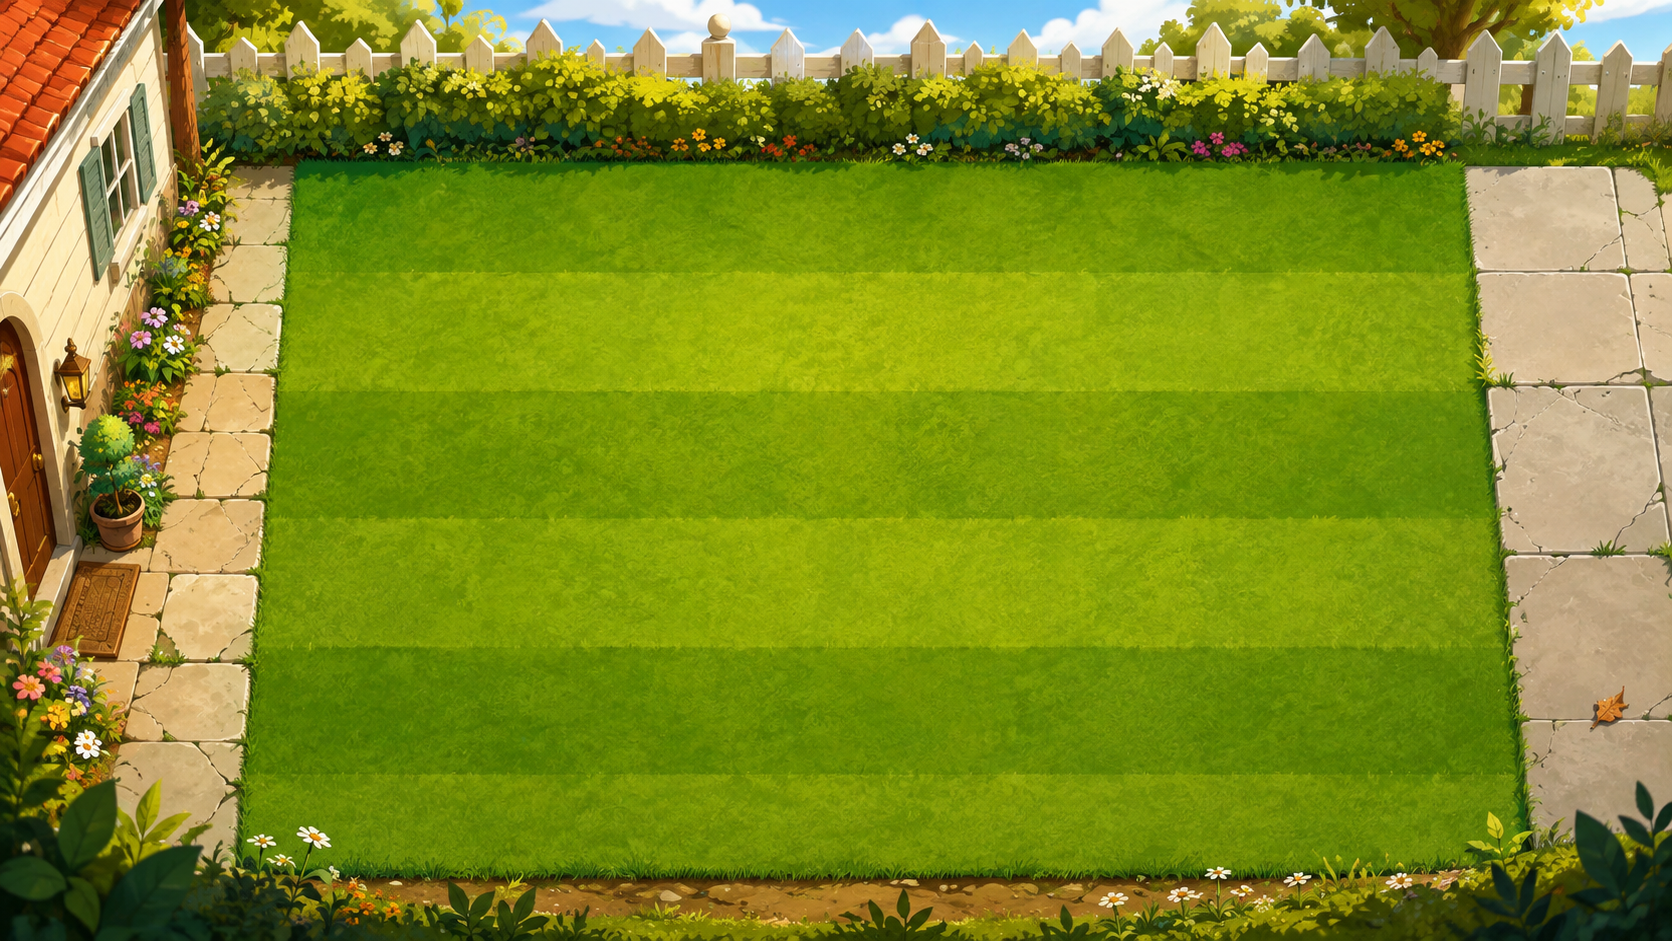
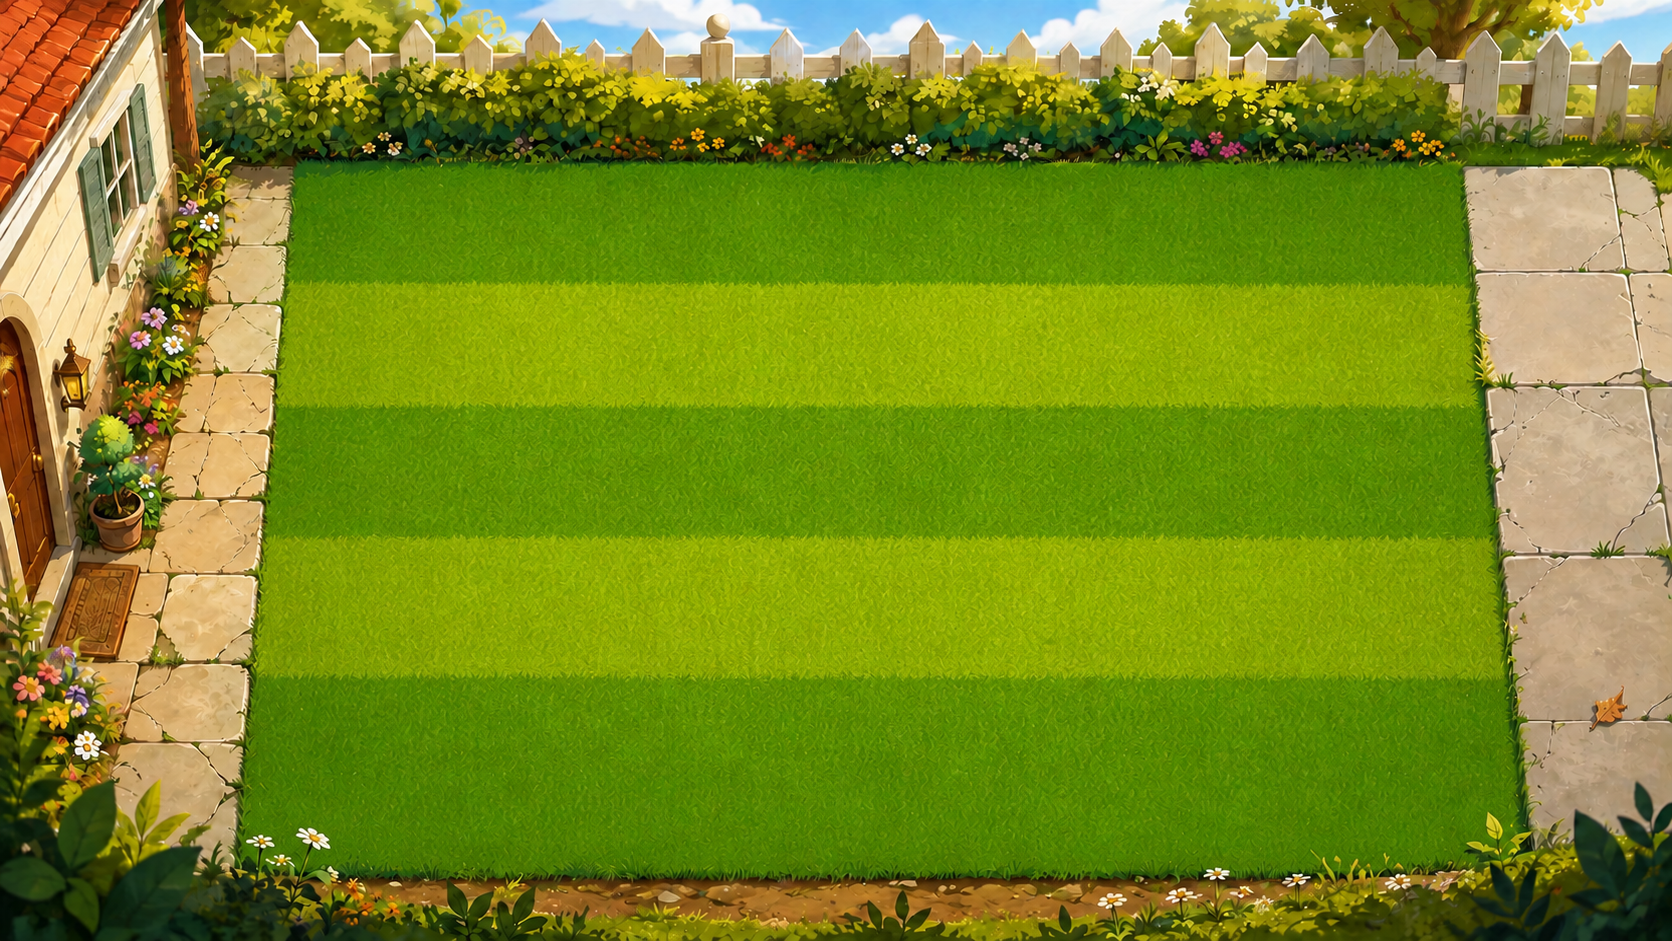
Render five equal lawn rows matching the original front yard
Replace the six-stripe background and normalize its five painted bands to shared 124-pixel rows on load. Restore planting across the full lawn and document the image prompts and original layout references.

Changed region(s): [[0.0, 0.0, 1.0, 1.0], [0.9952, 0.0308, 1.0, 0.0616], [0.7153, 0.6164, 0.7464, 0.6472]]

diff --git a/src/game/GardenRenderer.ts b/src/game/GardenRenderer.ts
@@ -47,7 +47,7 @@ const loadImage = (src: string) =>
  */
 export class GardenRenderer {
   private readonly ctx: CanvasRenderingContext2D
-  private background?: HTMLImageElement
+  private background?: HTMLCanvasElement
   private zombieAtlas?: HTMLImageElement
 
   /** Individual sprites cut out of the atlas, indexed by `PlantDef.sprite`. */
@@ -88,7 +88,7 @@ export class GardenRenderer {
     const [background, atlas, zombieAtlas] = await Promise.all([
       loadImage(gardenUrl), loadImage(spritesUrl), loadImage(zombieAnimationsUrl),
     ])
-    this.background = background
+    this.background = this.prepareBackground(background)
     this.zombieAtlas = zombieAtlas
     for (const [sx, sy, sw, sh] of SPRITE_RECTS) {
       const cut = document.createElement('canvas')
@@ -98,6 +98,30 @@ export class GardenRenderer {
       this.sprites.push(cut)
       this.thumbs.push(cut.toDataURL('image/png'))
     }
+  }
+
+  /** Fit the painted bands to the same equal-height rows used for interaction. */
+  private prepareBackground(image: HTMLImageElement) {
+    const canvas = document.createElement('canvas')
+    canvas.width = FIELD.w
+    canvas.height = FIELD.h
+    const c = canvas.getContext('2d')!
+    // Measured stripe boundaries in garden.png, expressed in canvas units.
+    // Resample once on load; the illustration does not define gameplay geometry.
+    const sourceEdges = [140, 245, 350, 463, 583, 760]
+    const sourceScale = image.naturalHeight / FIELD.h
+    const strip = (top: number, bottom: number, y: number, height: number) => {
+      c.drawImage(image, 0, top * sourceScale, image.naturalWidth, (bottom - top) * sourceScale,
+        0, y, FIELD.w, height)
+    }
+    strip(0, sourceEdges[0], 0, FIELD.y)
+    for (let row = 0; row < FIELD.rows; row++) {
+      const { y, height } = cellBounds(row, 0)
+      strip(sourceEdges[row], sourceEdges[row + 1], y, height)
+    }
+    const bottom = FIELD.y + FIELD.rows * FIELD.ch
+    strip(sourceEdges[FIELD.rows], FIELD.h, bottom, FIELD.h - bottom)
+    return canvas
   }
 
   /** Drops every transient effect — called when a new run starts. */
@@ -554,11 +578,12 @@ export class GardenRenderer {
     c.lineWidth = 1
     for (let col = 0; col <= FIELD.cols; col++) {
       c.beginPath()
-      c.moveTo(FIELD.x + col * FIELD.cw, FIELD.rowEdges[0])
-      c.lineTo(FIELD.x + col * FIELD.cw, FIELD.rowEdges[FIELD.rows])
+      c.moveTo(FIELD.x + col * FIELD.cw, FIELD.y)
+      c.lineTo(FIELD.x + col * FIELD.cw, FIELD.y + FIELD.rows * FIELD.ch)
       c.stroke()
     }
-    for (const y of FIELD.rowEdges) {
+    for (let row = 0; row <= FIELD.rows; row++) {
+      const y = FIELD.y + row * FIELD.ch
       c.beginPath()
       c.moveTo(FIELD.x, y)
       c.lineTo(FIELD.x + FIELD.cols * FIELD.cw, y)

diff --git a/src/game/config.ts b/src/game/config.ts
@@ -36,17 +36,14 @@ export const LEVELS: LevelDef[] = [
 
 /** Lawn geometry in 1440 × 810 canvas units. */
 export const FIELD = {
-  x: 238, cw: 115, cols: 9, rows: 5, w: 1440, h: 810,
-  // Measured edges of the lower five grass bands in garden.png. The grass
-  // beside the hedge is scenery; the painted lanes are not equally tall.
-  rowEdges: [235, 337, 446, 557, 667, 758],
+  x: 238, y: 140, cw: 115, ch: 124, cols: 9, rows: 5, w: 1440, h: 810,
 } as const
 
 export const cellBounds = (row: number, col: number) => ({
   x: FIELD.x + col * FIELD.cw,
-  y: FIELD.rowEdges[row],
+  y: FIELD.y + row * FIELD.ch,
   width: FIELD.cw,
-  height: FIELD.rowEdges[row + 1] - FIELD.rowEdges[row],
+  height: FIELD.ch,
 })
 
 /** Ground anchor shared by plants, zombies, mowers and planting previews. */
@@ -57,10 +54,8 @@ export const center = (row: number, col: number) => {
 
 export function cellAt(p: { x: number; y: number }) {
   const col = Math.floor((p.x - FIELD.x) / FIELD.cw)
-  const row = FIELD.rowEdges.findIndex(
-    (top, i) => i < FIELD.rows && p.y >= top && p.y < FIELD.rowEdges[i + 1],
-  )
-  return col >= 0 && col < FIELD.cols && row >= 0 ? { row, col } : null
+  const row = Math.floor((p.y - FIELD.y) / FIELD.ch)
+  return col >= 0 && col < FIELD.cols && row >= 0 && row < FIELD.rows ? { row, col } : null
 }
 
 /** Source rectangles of the 12 sprites packed into `sprites.png`. */

diff --git a/src/assets/garden.md b/src/assets/garden.md
@@ -1,0 +1,39 @@
+# 庭院背景
+
+`garden.png` 使用内置 imagegen 编辑生成，1672 × 941。以原版白天前院的 5 行 × 9 列为结构参考。
+
+生成素材包含五条草带，但行高不精确。`GardenRenderer.prepareBackground()` 在加载时按测得的源边界 `[140, 245, 350, 463, 583, 760]`（1440 × 810 坐标）分段绘制，将五条草带统一到 `FIELD` 的等高行；每行 124 像素，从 y=140 到 y=760。处理结果缓存供后续帧使用。格子、落脚点、选中框与输入都由同一份 `FIELD` 定义。
+
+## 原版结构参考
+
+- [白天前院：5 行 × 9 列](https://shared.akamai.steamstatic.com/store_item_assets/steam/apps/3590/0000008164.1920x1080.jpg)
+- [泳池：6 行，其中两行水路](https://shared.akamai.steamstatic.com/store_item_assets/steam/apps/3590/0000008156.1920x1080.jpg)
+
+## 生成提示词
+
+```text
+Use case: precise-object-edit.
+Asset type: production garden game background, exact five-row lawn.
+Input image 1: EDIT TARGET, our detailed sunny garden illustration.
+Input image 2: STRUCTURAL REFERENCE ONLY, original Plants vs Zombies daytime lawn gameplay with FIVE rows and NINE columns. Do not copy its characters, UI, text, or illustration style.
+Task: Repaint the ENTIRE open grass rectangle of image 1 so it contains EXACTLY FIVE equally tall horizontal mowing stripes from hedge to bottom border. The old image has six stripes: discard ALL its old internal stripe boundaries and replace them with FOUR equally spaced internal boundaries. This is a full repartition of the grass, not adding shrubbery.
+Five stripes from top to bottom: medium green, light yellow-green, medium green, light yellow-green, medium green. All five have equal height and match the existing textured hand-painted grass. The FIRST row immediately touches the existing hedge, the FIFTH row immediately touches the bottom flower border. Exactly four subtle straight horizontal color transitions across the grass. No sixth stripe, no partial grass strip, no extra narrow stripe along hedge or bottom.
+Precise image 1 geometry, 1672x941 reference: grass begins at y=163 and ends at y=882. The FOUR new internal color boundaries are at y=307,451,595,739. Grass spans approximately x=290..1480 with existing natural edges. Keep its full current footprint. Every band is about144px tall. No old boundaries at273,390,520,646,775 should remain.
+Invariants: Preserve original image 1 house, roof, sky, white fence, low hedge, left and right stone paths, flowers, sunlight, painterly texture, 16:9 framing. ONLY repartition/repaint grass inside existing lawn. No additional hedge. No characters, plants, mowers, shadows of characters, checkerboard columns, grid outlines, water, lettering, labels, UI or watermarks.
+Before finalizing, count the stripes: ONE medium green top row, TWO lighter row, THREE medium middle row, FOUR lighter row, FIVE medium green bottom row. Entire lawn = FIVE equal rows.
+```
+
+## 调整提示词
+
+```text
+Use case: precise-object-edit.
+Input image is an edit target. It now correctly has FIVE horizontal lawn stripes, but the bottom stripe is almost twice as tall as the others. Fix only this unequal sizing.
+Keep FIVE stripes, same alternating colors medium/light/medium/light/medium. Redistribute them to five EQUAL HEIGHT rows across the FULL existing grass rectangle, from the hedge at y=163 to the flowers at y=882 in this 1672x941 image. Each row must be144px tall. This means MOVE each internal boundary DOWN:
+boundary1 from about y=278 to y=307;
+boundary2 from about y=400 to y=451;
+boundary3 from about y=524 to y=595;
+boundary4 from about y=661 to y=739.
+The final bottom dark stripe must only be y=739..882, NOT y=661..882. The third dark stripe must only be y=451..595. Top dark stripe y=163..307. Two lighter stripes y=307..451 and y=595..739. These five equally tall green strips fill the entire lawn.
+Repaint the grass as needed, remove all current internal transition lines and draw the new ones at those positions. Make all FIVE strips exactly the same apparent vertical height in the image, regardless of perspective.
+Preserve all scenery outside the lawn, original detailed painting style, house, paths, fence, hedge, flowers, image size and framing. No characters, objects, text or UI. Only change lawn stripe heights.
+```

diff --git a/README.md b/README.md
@@ -55,7 +55,7 @@ src/
 
 - 两张 PNG（合计约 5 MB）成为带 hash 的构建产物，`assetsInlineLimit: 0` 确保不被内联回 JS。
 - 新增一张透明僵尸动画图：四种僵尸各有 4 帧行走、4 帧啃咬。行走按实际移动距离选帧；完整啃咬动作约 1.26 秒一轮，伤害仍按原来的 0.42 秒间隔结算，随暂停、倍速和寒冰减速同步。
-- 战斗行按背景下方五条草带的实际边界划分，植物、僵尸和割草机的落脚点位于各行中间；种植预览、鼠标和键盘操作使用相同的格子坐标。
+- 庭院与原版前院一致，使用 5 行 × 9 列；背景草带在加载时统一到每行 124 像素，五行全部可种植。植物、僵尸、割草机、种植预览与鼠标、键盘操作共用相同的格子坐标。
 - 全局变量与 `document.getElementById` 的手工 HUD 刷新，换成 zustand + selector。
 - 逻辑保持等价：即时击杀原本写作 `99999` 伤害，这里用 `Infinity`。
 
